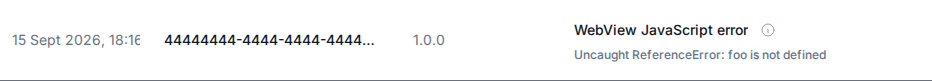
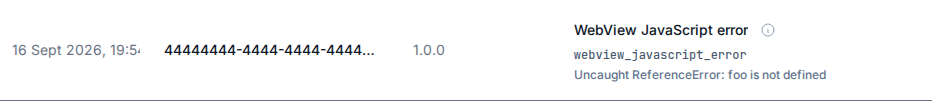
fix(frontend): show canonical action code under translated log labels

diff --git a/src/components/tables/LogTable.vue b/src/components/tables/LogTable.vue
@@ -10,7 +10,7 @@ import LogMetadataPopover from '~/components/tables/LogMetadataPopover.vue'
 import { formatDate } from '~/services/date'
 import { getDateRangeForPreset, getTimeWindowPageRange, TABLE_DATE_RANGE_DEFAULT } from '~/services/dateRange'
 import { getLogDocUrl } from '~/services/logDocLinks'
-import { extractLogOriginalMessage, formatLogActionLinkTitle, logRowDisplayMetadata, parseLogVersionName } from '~/services/logTableDisplay'
+import { extractLogOriginalMessage, formatLogActionLinkTitle, logRowDisplayMetadata, parseLogVersionName, shouldShowLogActionCode } from '~/services/logTableDisplay'
 import { actionToFilter, createActionFilterState, failureActionFilterKeys, filterToAction, observeActionFilterKeys, updateActionFilterKeys } from '~/services/statsActions'
 import { defaultApiHost, useSupabase } from '~/services/supabase'
 
@@ -313,6 +313,23 @@ columns.value = [
       const metadata = logRowDisplayMetadata(elem.version_name, elem.metadata)
       const originalMessage = extractLogOriginalMessage(elem.metadata)
       const linkTitle = formatLogActionLinkTitle(elem.action, actionLabel, elem.metadata)
+      const showActionCode = shouldShowLogActionCode(elem.action, actionLabel)
+      const secondaryLines = [
+        showActionCode
+          ? h('span', {
+              'class': 'block min-w-0 break-all font-mono text-xs text-slate-600 dark:text-slate-400',
+              'title': elem.action,
+              'data-test': 'log-row-action-code',
+            }, elem.action)
+          : null,
+        originalMessage
+          ? h('span', {
+              'class': 'block min-w-0 break-all text-xs text-slate-500 dark:text-slate-400',
+              'title': originalMessage,
+              'data-test': 'log-row-original-error',
+            }, originalMessage)
+          : null,
+      ].filter(Boolean)
       return h('div', { class: 'flex w-full min-w-0 flex-col gap-0.5' }, [
         h('div', { class: 'flex min-w-0 items-center gap-1.5' }, [
           h('a', {
@@ -327,12 +344,8 @@ columns.value = [
             ? h(LogMetadataPopover, { json: JSON.stringify(metadata, null, 2) })
             : null,
         ]),
-        originalMessage
-          ? h('span', {
-              'class': 'min-w-0 truncate text-xs text-slate-500 dark:text-slate-400',
-              'title': originalMessage,
-              'data-test': 'log-row-original-error',
-            }, originalMessage)
+        secondaryLines.length
+          ? h('div', { class: 'flex min-w-0 flex-col gap-0.5' }, secondaryLines)
           : null,
       ])
     },

diff --git a/tests/log-table-display.unit.test.ts b/tests/log-table-display.unit.test.ts
@@ -1,5 +1,5 @@
 import { describe, expect, it } from 'vitest'
-import { extractLogOriginalMessage, formatLogActionLinkTitle, logRowDisplayMetadata, parseLogVersionName, type LogMetadata } from '~/services/logTableDisplay'
+import { extractLogOriginalMessage, formatLogActionLinkTitle, logRowDisplayMetadata, parseLogVersionName, shouldShowLogActionCode, type LogMetadata } from '~/services/logTableDisplay'
 
 describe('parseLogVersionName', () => {
   it.concurrent('keeps a plain version unchanged', () => {
@@ -70,6 +70,16 @@ describe('extractLogOriginalMessage', () => {
     expect(extractLogOriginalMessage({ message: { text: 'boom' } } as unknown as LogMetadata)).toBeNull()
     expect(extractLogOriginalMessage({ error: 404 } as unknown as LogMetadata)).toBeNull()
     expect(extractLogOriginalMessage({ reason: 'ok', error: 404 } as unknown as LogMetadata)).toBe('ok')
+  })
+})
+
+describe('shouldShowLogActionCode', () => {
+  it.concurrent('shows code when label is translated', () => {
+    expect(shouldShowLogActionCode('webview_javascript_error', 'WebView JavaScript error')).toBe(true)
+  })
+
+  it.concurrent('hides duplicate code when label equals action', () => {
+    expect(shouldShowLogActionCode('notify_app_ready', 'notify_app_ready')).toBe(false)
   })
 })
 

diff --git a/playwright/e2e/log-row-original-error-screenshot.spec.ts b/playwright/e2e/log-row-original-error-screenshot.spec.ts
@@ -20,6 +20,7 @@ test.describe('PR screenshot — logs original error', () => {
 
     const row = page.locator('#custom_table tbody tr', { hasText: '44444444' })
     await expect(row.locator('[data-test="log-row-action"]')).toHaveText('WebView JavaScript error')
+    await expect(row.locator('[data-test="log-row-action-code"]')).toHaveText('webview_javascript_error')
     await expect(row.locator('[data-test="log-row-original-error"]')).toHaveText('Uncaught ReferenceError: foo is not defined')
 
     await expect(page.getByRole('button', { name: 'Logs', exact: true })).toHaveAttribute('aria-current', 'page')

diff --git a/playwright/e2e/observe-tabs.spec.ts b/playwright/e2e/observe-tabs.spec.ts
@@ -239,6 +239,7 @@ test.describe('Observe sections', () => {
     await page.goto('/app/com.demo.app/observe/logs')
     const row = page.locator('#custom_table tbody tr', { hasText: '44444444' })
     await expect(row.locator('[data-test="log-row-action"]')).toHaveText('WebView JavaScript error')
+    await expect(row.locator('[data-test="log-row-action-code"]')).toHaveText('webview_javascript_error')
     await expect(row.locator('[data-test="log-row-original-error"]')).toHaveText(originalError)
     await expect(row.locator('[data-test="log-row-action"]')).toHaveAttribute(
       'title',

diff --git a/src/services/logTableDisplay.ts b/src/services/logTableDisplay.ts
@@ -77,6 +77,11 @@ export function extractLogOriginalMessage(metadata: LogMetadata): string | null 
   return null
 }
 
+/** Show canonical stats_action under the friendly label when they differ. */
+export function shouldShowLogActionCode(action: string, translatedLabel: string): boolean {
+  return translatedLabel !== action
+}
+
 export function formatLogActionLinkTitle(
   action: string,
   translatedLabel: string,
